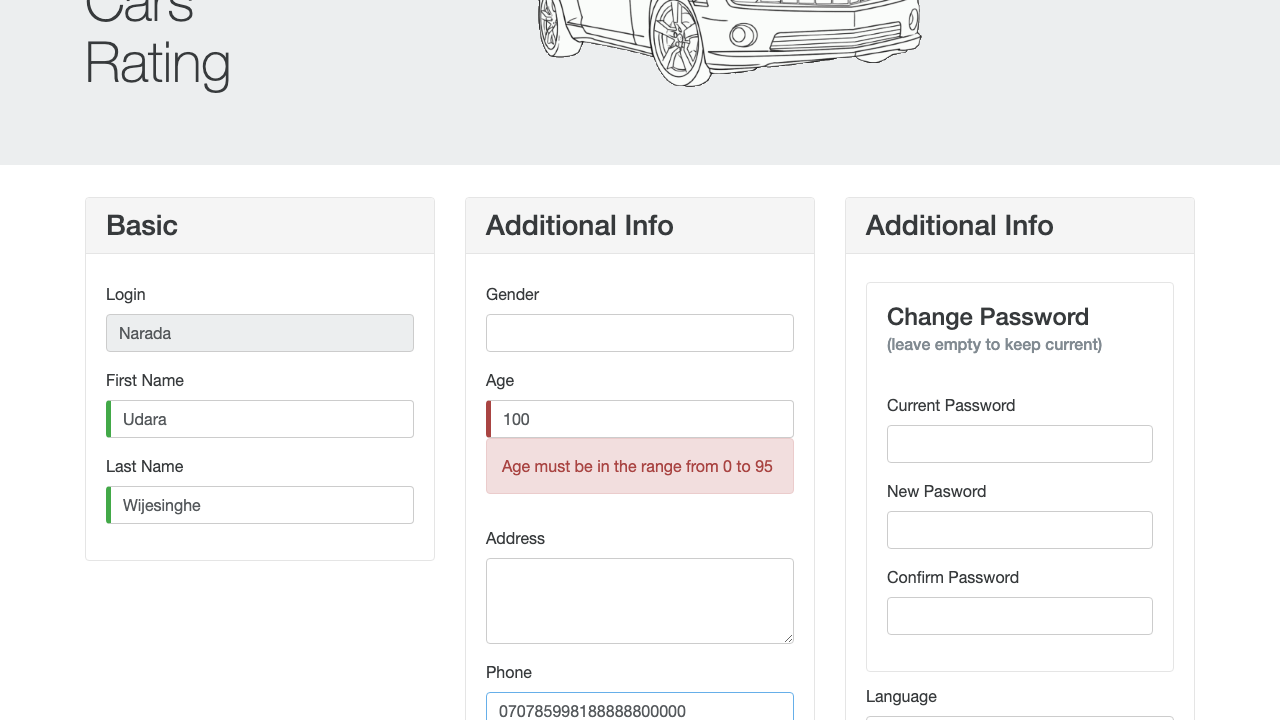
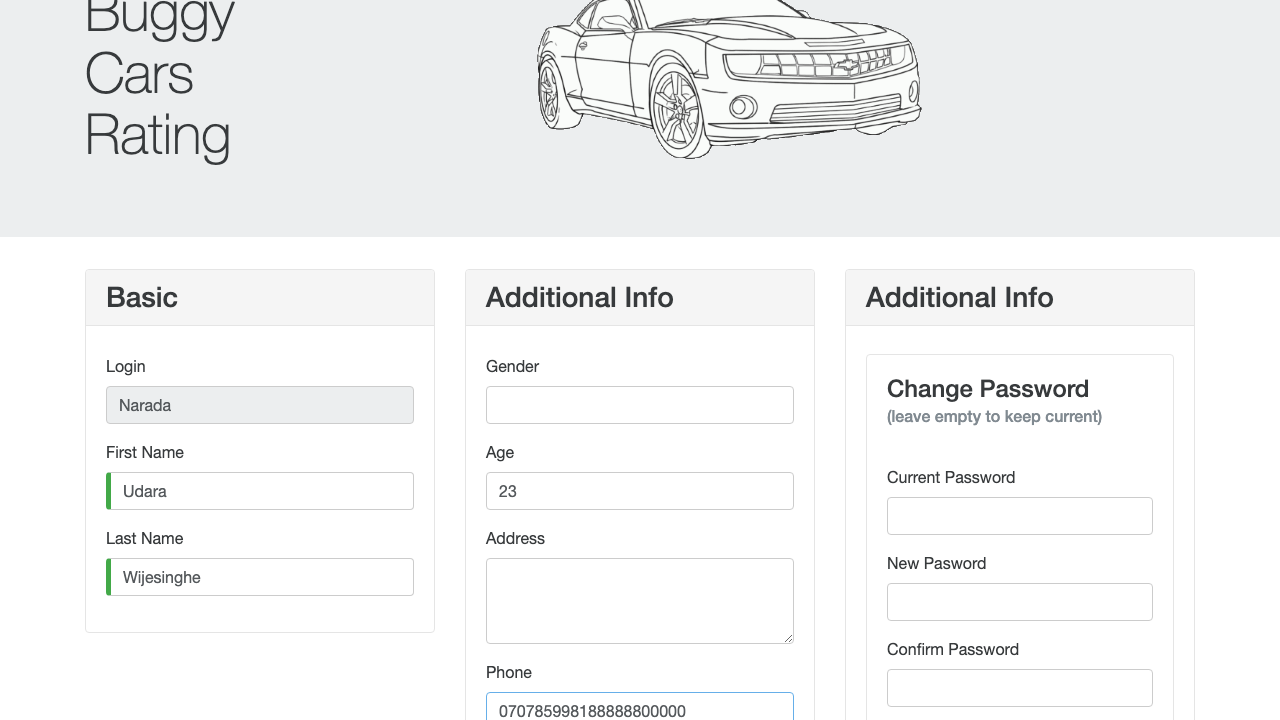
Fix the github action and again enter the github action

diff --git a/page/invalidUpdatePage.ts b/page/invalidUpdatePage.ts
@@ -52,12 +52,12 @@ export class InvalidProfile{
     }){
         await this.age.fill(user.Age);
         if (user.Age < "0" || user.Age > "95"){
-            await expect(this.ageAlert).toBeVisible();
             await this.page.screenshot({ path: 'invalidAgeAlert.png' });
             console.log("Invalid age alert displayed");
-            await this.age.fill('23');
-            console.log("Valid age added");
         }
+        await this.age.clear();
+        await this.age.fill('23');
+        console.log("Valid age added");
         await this.phone.fill(user.Phone);
         if (user.Phone.length < 10 || user.Phone.length > 15){
             await this.page.screenshot({ path: 'invalidPhoneAlert.png' });
